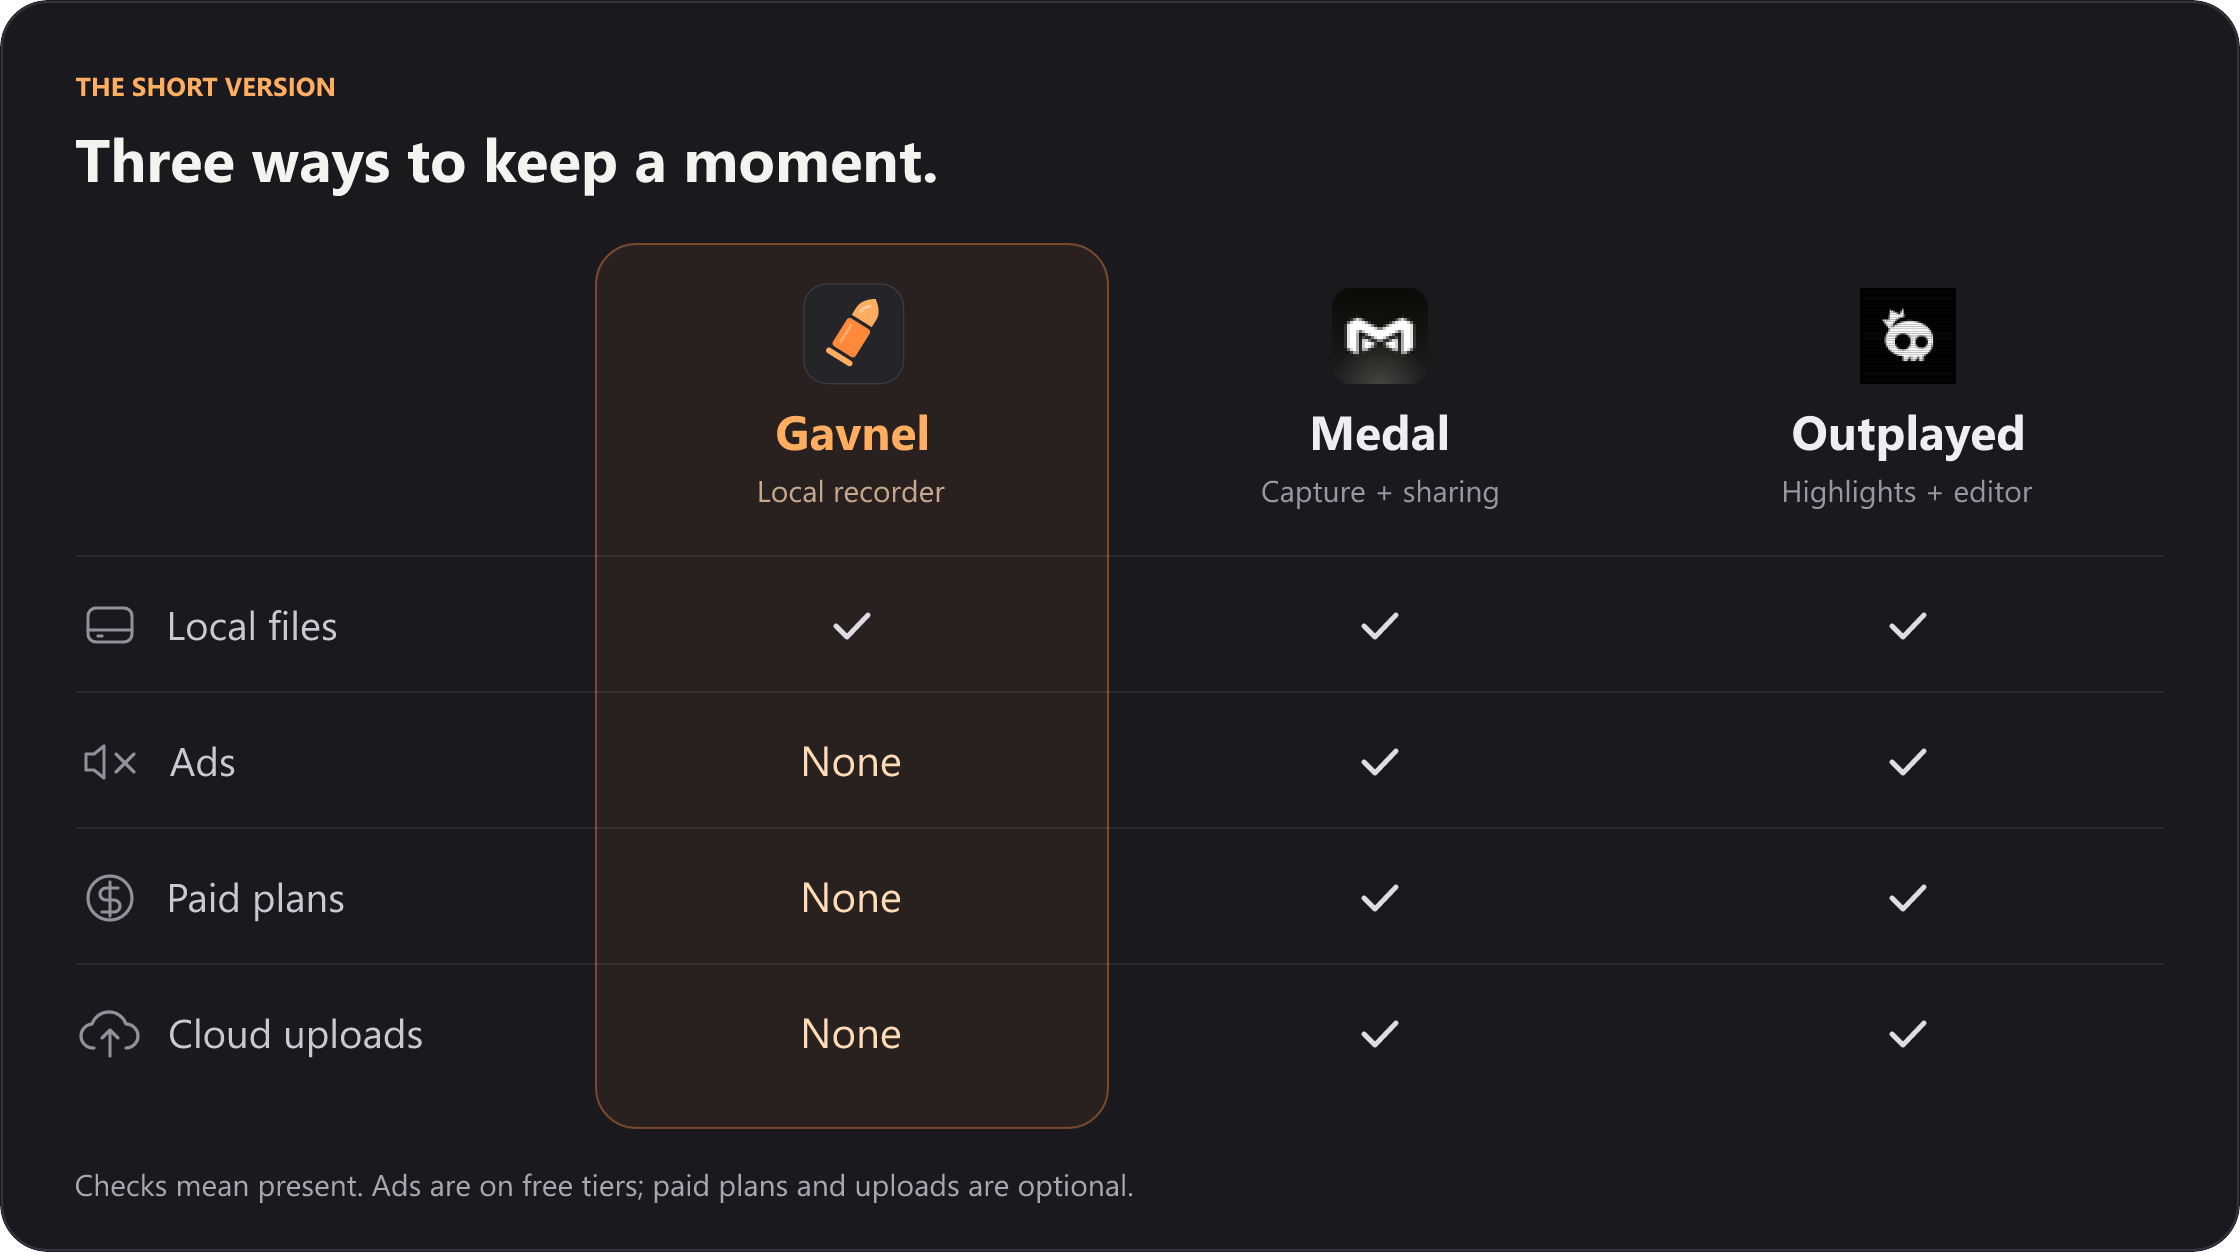
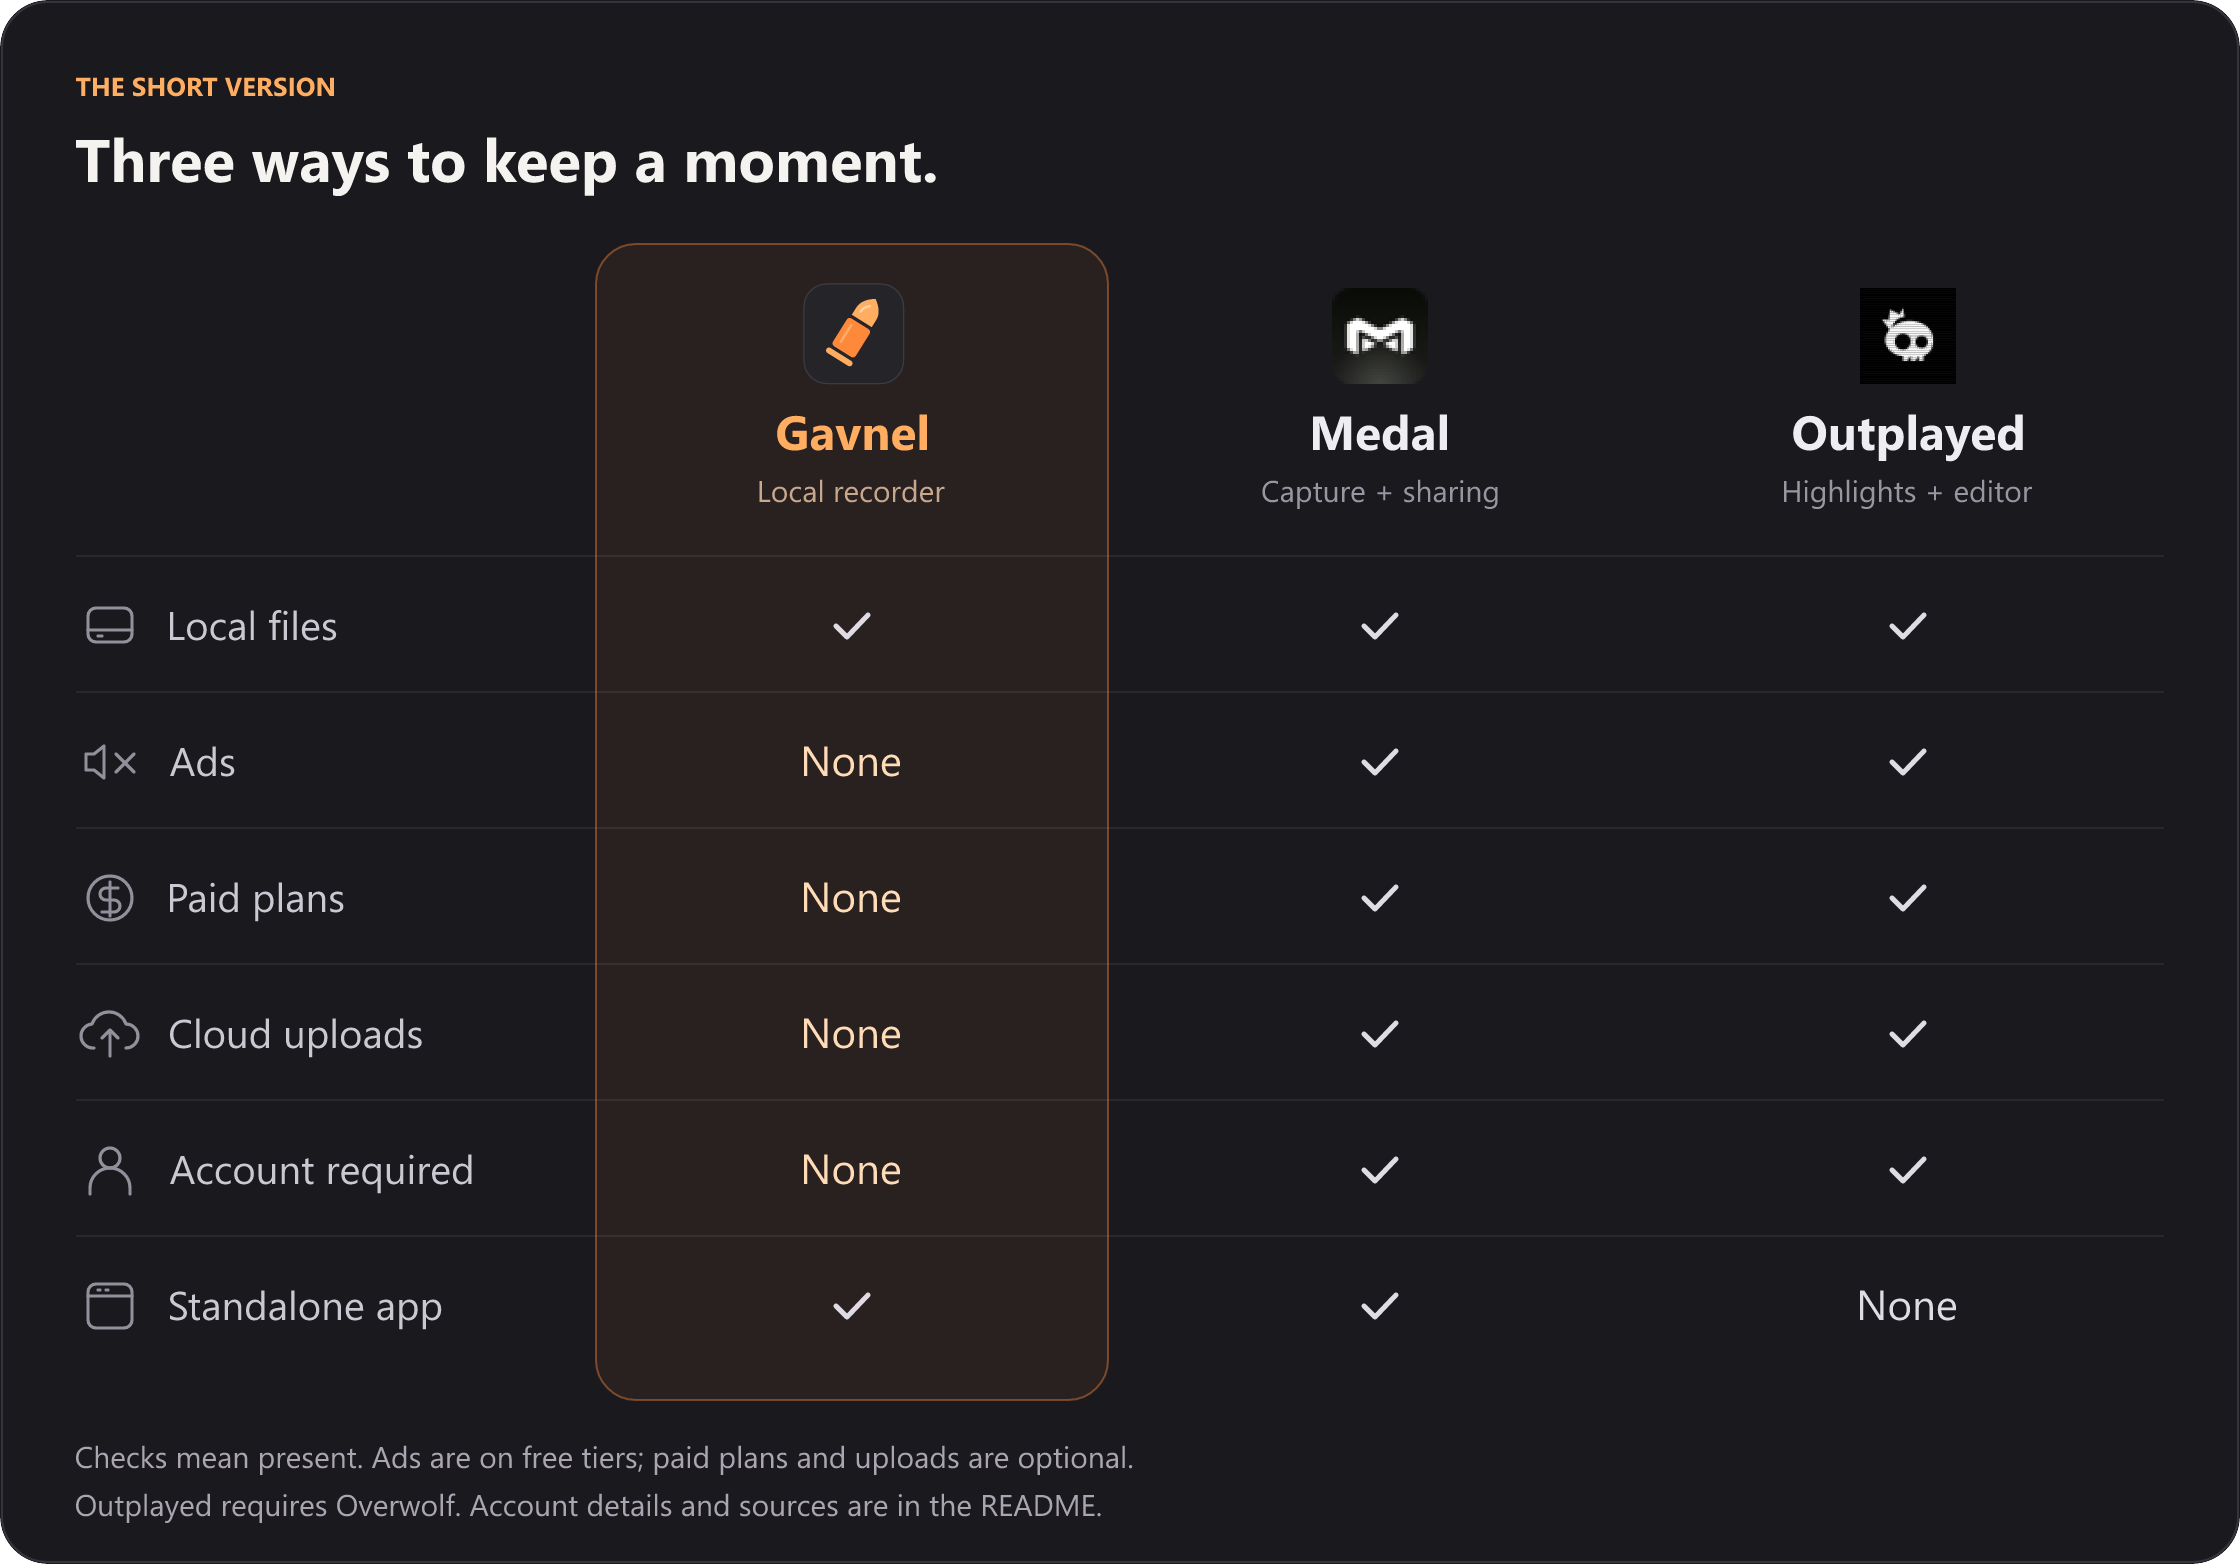
Add account and standalone app rows to README comparison

diff --git a/README.md b/README.md
@@ -48,15 +48,15 @@ Medal and Outplayed are useful for people who want sharing tools, editors, or au
 **All three can save recordings locally.** The difference is what comes with that recording experience.
 
 <p align="center">
-  <img src="assets/readme/comparison.png" alt="Gavnel, Medal, and Outplayed comparison: all save locally. Gavnel has no ads, paid tier, or cloud uploads. Medal and Outplayed have free-tier ads, optional paid plans, and optional uploads." width="100%">
+  <img src="assets/readme/comparison.png" alt="Gavnel, Medal, and Outplayed comparison: all save locally. Gavnel has no ads, paid tier, or cloud uploads. Medal and Outplayed have free-tier ads, optional paid plans, and optional uploads. Gavnel needs no account; Medal and Outplayed require accounts. Gavnel and Medal are standalone; Outplayed requires Overwolf." width="100%">
 </p>
 
 <details>
 <summary><strong>Sources &amp; accessible text version</strong></summary>
 
-- **Gavnel:** local files; no ads, paid tier, or cloud uploads; standalone native app.
-- **Medal:** [local files][medal-local]; [free-tier ads, Premium, and cloud options][medal-plans].
-- **Outplayed:** [local files][outplayed-local]; [free-tier ads, Premium, and optional hosting][outplayed-plans]; [Overwolf client required][outplayed-app]. Login is required to access Outplayed, though recording continues while logged out.
+- **Gavnel:** local files; no ads, paid tier, cloud uploads, or account requirement; standalone native app.
+- **Medal:** [local files][medal-local]; [free-tier ads, Premium, and cloud options][medal-plans]; [account required][medal-account]; standalone app.
+- **Outplayed:** [local files][outplayed-local]; [free-tier ads, Premium, and optional hosting][outplayed-plans]; [Overwolf client required][outplayed-app]. [Account required to access Outplayed][outplayed-plans], though recording continues while logged out.
 
 Official product icons: [Medal support](https://support.medal.tv/) and [Outplayed](https://outplayed.tv/). Their marks belong to their respective owners and identify the products being compared.
 
@@ -127,3 +127,5 @@ Read the [user guide](docs/usage.md) for recording modes, audio, storage, and pl
 [outplayed-local]: https://support.overwolf.com/support/solutions/articles/9000284626-outplayed-faq
 [outplayed-performance]: https://support.overwolf.com/support/solutions/articles/9000181387-common-capture-issues
 [overwolf-codecs]: https://support.overwolf.com/support/solutions/articles/9000177861-video-codec-selection-and-availability
+
+[medal-account]: https://support.medal.tv/support/solutions/articles/48001147502/
